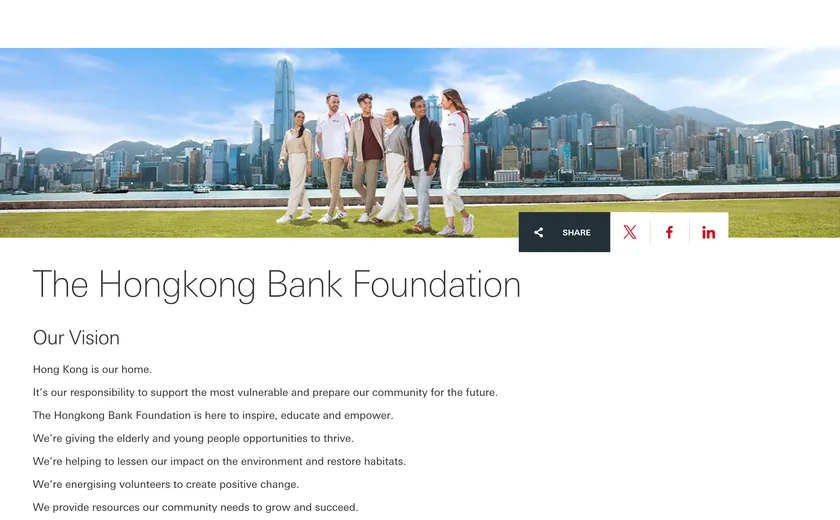
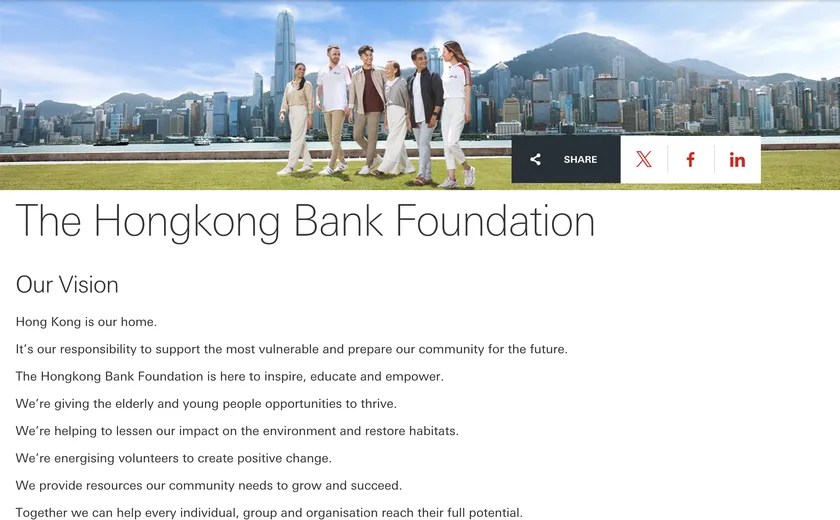
Replace work card images with client-supplied artwork
Crop and optimise the actual campaign creative for each homepage work
card, replacing the placeholder screenshots:

- Joocies: cropped from the Sunkist Joocies poster to show all four
  keychain characters
- HBF Website: cropped below the HSBC nav to show the hero image and
  page title
- APAC Vision Health Survey: cropped Roche video still, letterboxing
  removed

Also change the homepage work section link from "See the brands I've
worked with" to "See my portfolio".

diff --git a/app/page.js b/app/page.js
@@ -159,7 +159,7 @@ export default function Home() {
             </div>
             <div className="hp-work-more">
               <Link className="hp-inline-link" href="/portfolio">
-                See the brands I&rsquo;ve worked with
+                See my portfolio
               </Link>
             </div>
           </div>
